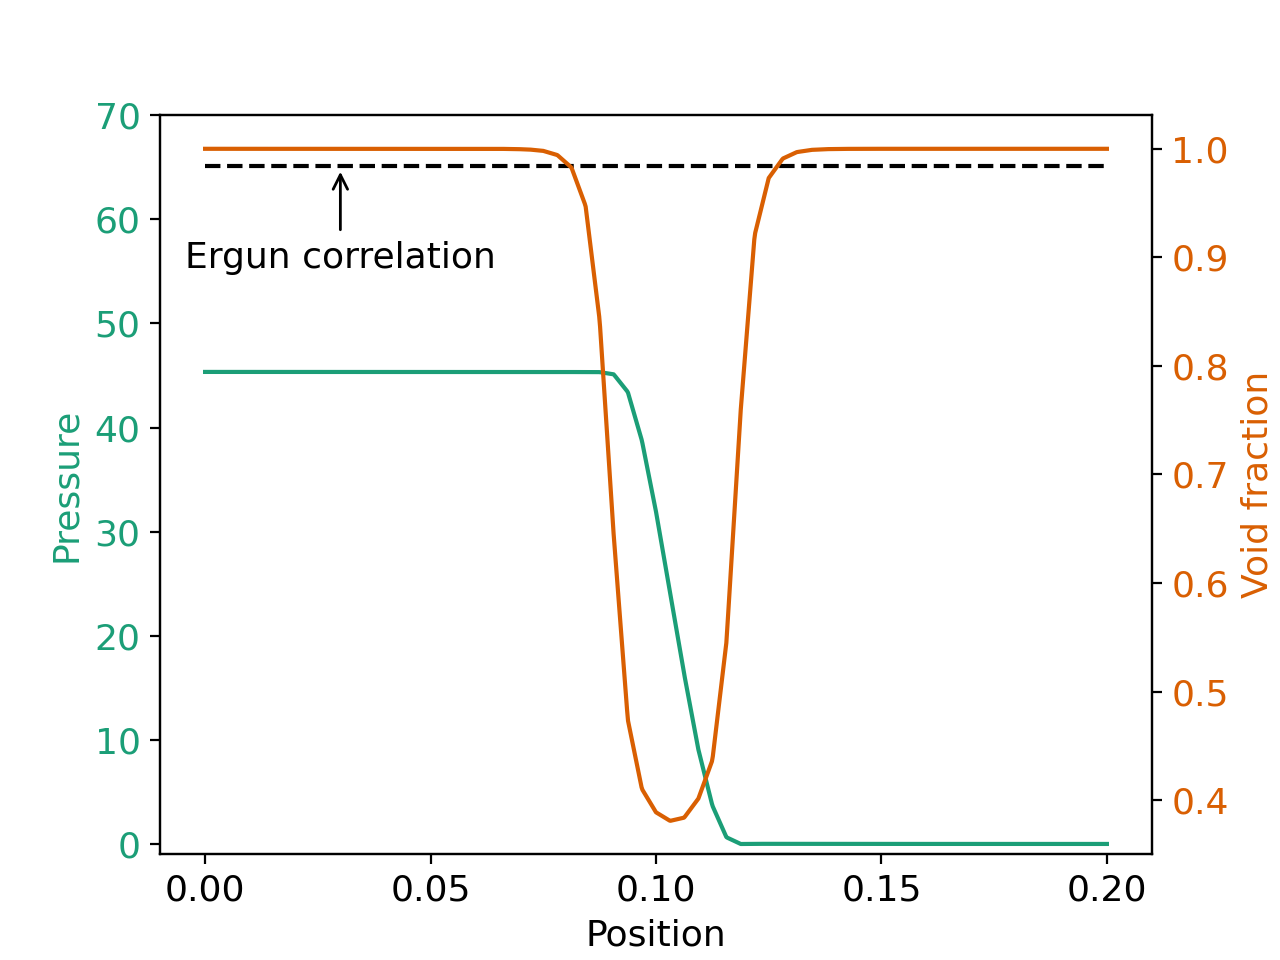
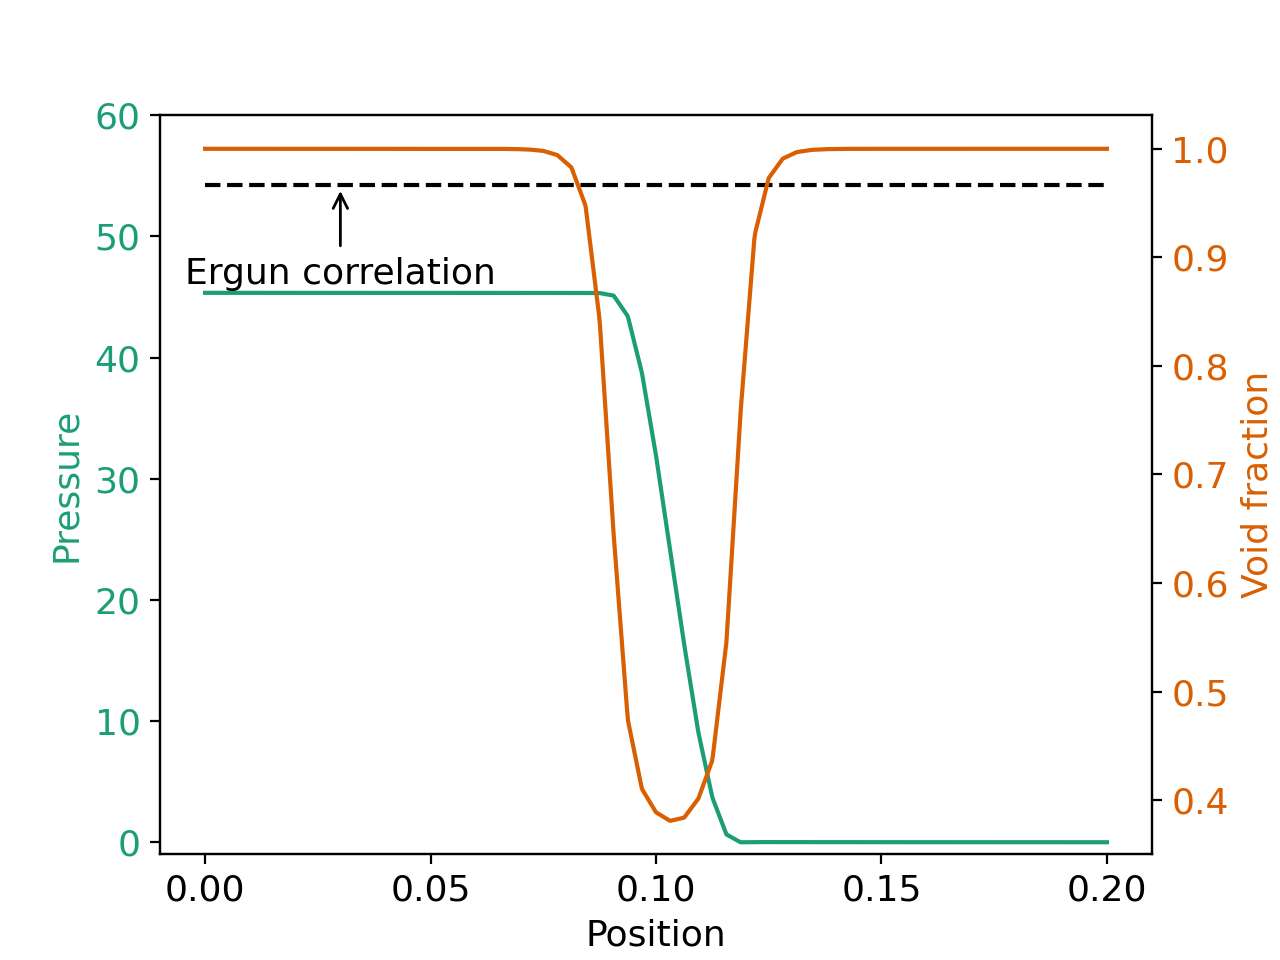
Implement comments

diff --git a/examples/unresolved-cfd-dem/cylindrical-packed-bed/post_process_packed_bed.py b/examples/unresolved-cfd-dem/cylindrical-packed-bed/post_process_packed_bed.py
@@ -12,6 +12,7 @@ This code extracts the pressure along the x axis at the center of the cylinder
 import numpy as np
 import matplotlib.pyplot as plt
 import pyvista as pv
+import pandas as pd
 
 # Plot font and colors
 #---------------------
@@ -24,7 +25,7 @@ colors=['#1b9e77','#d95f02','#7570b3','#e7298a','#66a61e','#e6ab02']
 #--------------------------------------------
 # Main
 #--------------------------------------------
-
+  
 # Particle properties
 dp=0.001
 n_p=10000
@@ -40,15 +41,22 @@ U=0.2
 
 # Column diameter
 dc=0.02
-# Packed bed porosity (loosely packed spheres)
-eps_packed=0.4
+
+# Packed bed height
+# Load lethe particles last vtu file of the dem simulation
+particles_vtu_file = "./output_dem/out.60000.00000.vtu"
+sim_particles = pv.read(particles_vtu_file)
+particles_loc = pd.DataFrame(np.copy(sim_particles.points), columns=['x', 'y','z'])
+H_bed = particles_loc['x'].max() + 0.01 # The floating wall is placed at x=-0.01 
+
+print("Packed bed height from particles: ", H_bed)
 
 # Packed bed height
 V_particles=n_p*(4/3)*np.pi*(dp/2)**3
-V_bed=V_particles/(1-eps_packed)
 A_bed=np.pi*(dc/2)**2
-H_bed=V_bed/A_bed
-print("Packed bed height: ",H_bed)
+eps_packed = 1 - V_particles/(A_bed*H_bed)
+
+print("Packed bed porosity: ", eps_packed)
 
 # Pressure drop from the Ergun equation
 deltaP_ergun= (150*(1-eps_packed)**2*mu_f*U/(dp**2*eps_packed**3) + 1.75*(1-eps_packed)*rho_f*U**2/(dp*eps_packed**3))*H_bed
@@ -86,7 +94,7 @@ ax1.plot(x,p,label="Pressure drop",color=colors[0])
 ax1.plot([0,max(x)],[deltaP_ergun,deltaP_ergun],'k--',label="Ergun correlation")
 ax1.set_xlabel('Position')  # Common x-axis label
 ax1.set_ylabel('Pressure', color=colors[0])
-ax1.set_ylim([-1,70])
+ax1.set_ylim([-1,60])
 ax1.tick_params(axis='y', labelcolor=colors[0])  # Set y-axis tick color
 ax1.set_xticks([0,0.05,0.1,0.15,0.2]) #xticks(np.arange(min(x), max(x)+1, 1.0))
 

diff --git a/doc/source/examples/unresolved-cfd-dem/cylindrical-packed-bed/cylindrical-packed-bed.rst b/doc/source/examples/unresolved-cfd-dem/cylindrical-packed-bed/cylindrical-packed-bed.rst
@@ -370,14 +370,21 @@ The simulation is run using the ``lethe-fluid-vans`` application. Assuming that 
 -------------
 Results VANS
 -------------
-The results are shown in the plots below. The first plot visualizes the velocity of the fluid and the void fraction along the center axis of the cylinder. We see that the fluid rapidly accelerates in as the void fraction decreases to ensure mass conservation.
+The results are shown in the plots below. The first plot visualizes the velocity of the fluid and the void fraction along the axis of the cylinder. As expected, within the particle bed, the fluid velocity rises sharply while the void fraction decreases, reflecting mass conservation.
 
-The second plot displays the pressure drop resulting from the particle-fluid interactions. It can be seen that the quasi totality of the pressure drop occurs within the bed of particles. The dashed horizontal line corresponds to the pressure drop obtained from the Ergun correlation [#Ergun1952]_:
+The second plot displays the pressure drop resulting from particle-fluid interactions. It can be seen that the quasi-totality of the pressure drop occurs within the bed of particles. The dashed horizontal line corresponds to the pressure drop obtained from the Ergun correlation [#Ergun1952]_:
 
 .. math::
-    \Delta P = \left( \frac{150 (1-\varepsilon)^2 \mu U}{d_p^2 \varepsilon^3} + \frac{1.75 (1-\varepsilon) \rho U^2}{d_p \varepsilon^3} \right) H_{bed}
+    \Delta P = \left( \frac{150 (1-\varepsilon)^2 \mu U}{d_p^2 \varepsilon^3} + \frac{1.75 (1-\varepsilon) \rho U^2}{d_p \varepsilon^3} \right) H_{\rm bed}
 
-where :math:`\varepsilon` is the porosity of the packed bed, :math:`\mu` and :math:`\rho` are the dynamic viscosity and density of the fluid respectively, :math:`U` is the superficial velocity, :math:`d_p` is the particle diameter and :math:`H_{bed}` is the height of the packed bed. The value obtained from the Ergun equation is only indicative as it assumes a constant porosity of :math:`0.4` throughout the bed, for smooth spherical particles. Nonetheless, it provides a reasonable estimate of the expected order of magnitude. In this case, the Ergun correlation predicts a pressure drop of approximately :math:`70` Pa, which is comparable to the numerical result (:math:`45` Pa).
+where :math:`\varepsilon` is the porosity of the packed bed, :math:`\mu` and :math:`\rho` are the dynamic viscosity and density of the fluid respectively, :math:`U` is the superficial velocity, :math:`d_p` is the particle diameter and :math:`H_{\rm bed}` is the height of the packed bed.To evaluate this correlation, we first determine the bed height by identifying the position of the highest particle in the bed at the last time step of the DEM simulation. The mean bed porosity is then calculated as:
+
+.. math::
+        \varepsilon = 1 - \frac{V_{\rm p}}{V_{\rm bed}}
+
+where :math:`V_{\rm p}` is the total volume of particles in the bed and :math:`V_{\rm bed} = H_{\rm bed}\cdot \pi (d_c/2)^2` is the total volume of the packed bed, :math:`d_{\rm c}` being the column diameter.
+
+The Ergun correlation provides a reasonable estimate of the expected order of magnitude. In this case, it predicts a pressure drop of approximately :math:`54` Pa, which is comparable to the numerical result (:math:`45` Pa).
 
 .. image:: images/velocity_void_fraction.png
     :alt: velocity and void fraction distribution
